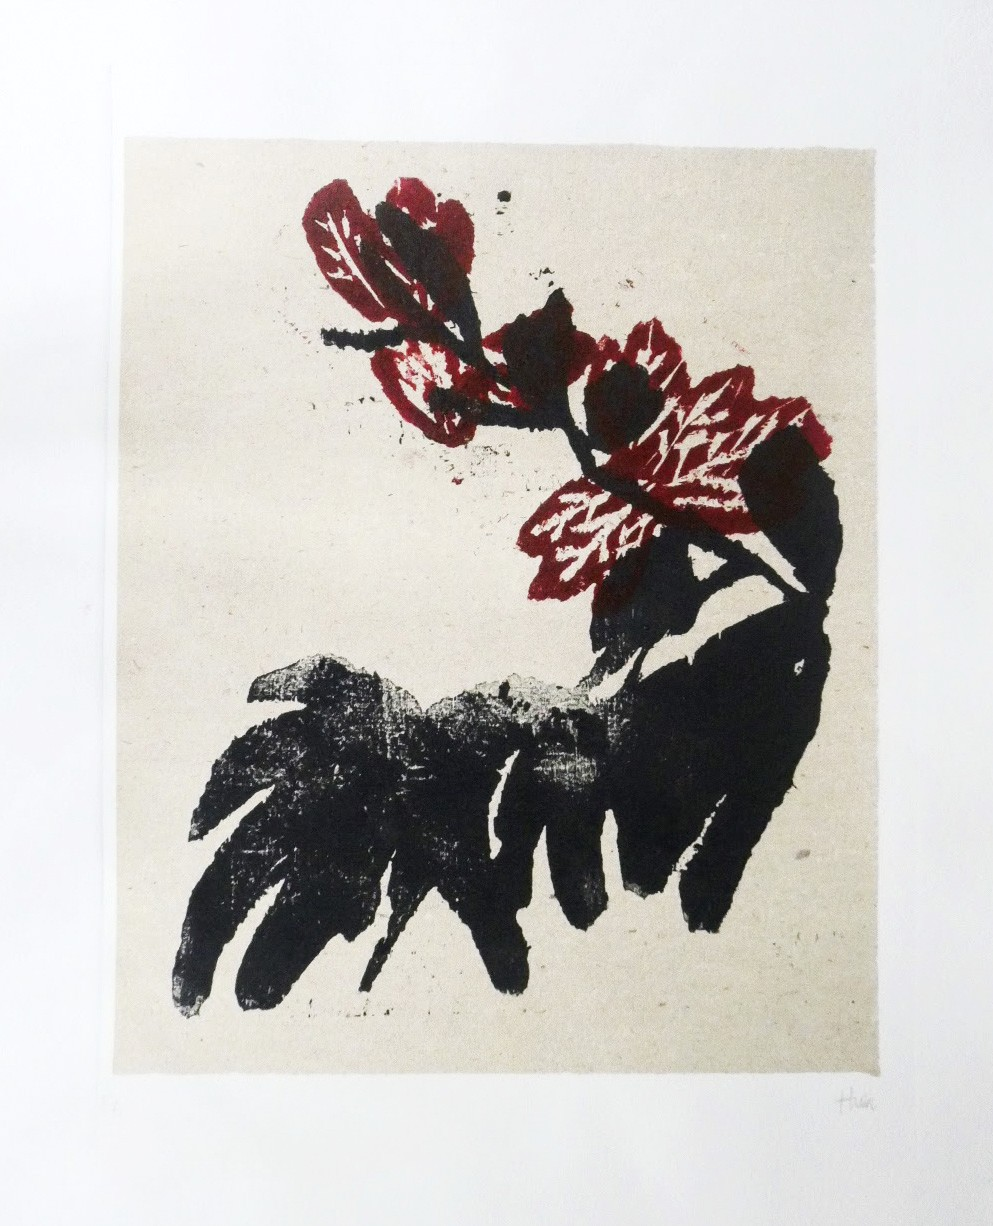
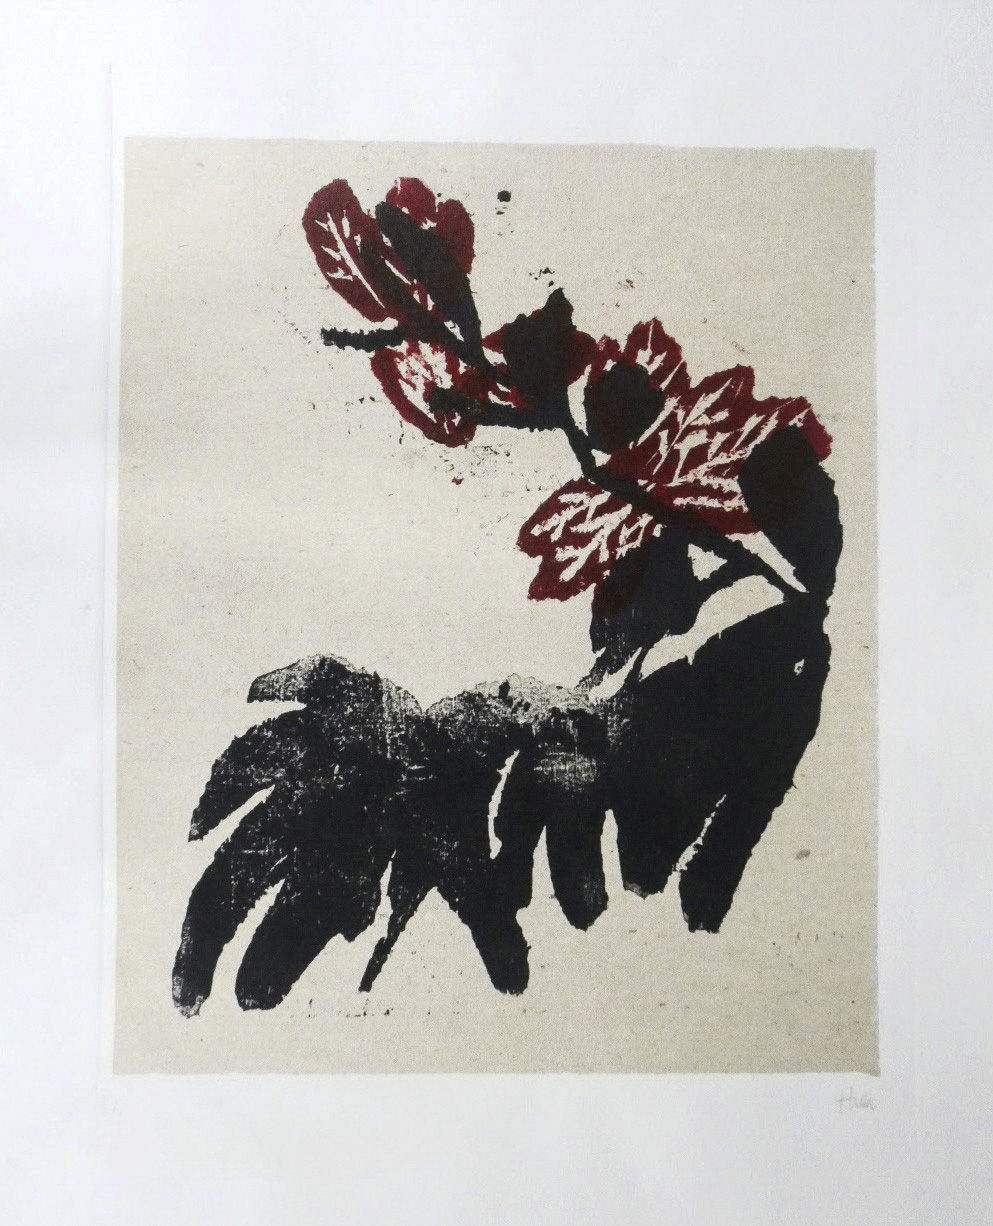
new photo

diff --git a/docs/gravures/bois/index.html b/docs/gravures/bois/index.html
@@ -299,9 +299,9 @@
       
       
       
-      <a class="gallery-item" href="/gravures/bois/tradi4.JPG" data-pswp-src="/gravures/bois/tradi4_huf040c9193bec4381a6b02a36ae1a17c4_241226_filter_10933573887768330671.JPG" data-pswp-width="993" data-pswp-height="1226" data-pswp-target="tradi4.jpg" title="Dialogue avec la peinture chinoise 1 - 39x47cm" itemscope itemtype="https://schema.org/ImageObject" style="aspect-ratio: 486 / 600">
-        <figure style="background-color: #eae8e4; aspect-ratio: 486 / 600">
-          <img class="lazyload" width="486" height="600" data-src="/gravures/bois/tradi4_huf040c9193bec4381a6b02a36ae1a17c4_241226_filter_6331161270205693318.JPG" alt="Dialogue avec la peinture chinoise 1 - 39x47cm" />
+      <a class="gallery-item" href="/gravures/bois/tradi4.JPG" data-pswp-src="/gravures/bois/tradi4_hu5a8d674d01358a74bb43c974e4c61c9b_358314_filter_10933573887768330671.JPG" data-pswp-width="993" data-pswp-height="1226" data-pswp-target="tradi4.jpg" title="Dialogue avec la peinture chinoise 1 - 39x47cm" itemscope itemtype="https://schema.org/ImageObject" style="aspect-ratio: 486 / 600">
+        <figure style="background-color: #dddcd9; aspect-ratio: 486 / 600">
+          <img class="lazyload" width="486" height="600" data-src="/gravures/bois/tradi4_hu5a8d674d01358a74bb43c974e4c61c9b_358314_filter_6331161270205693318.JPG" alt="Dialogue avec la peinture chinoise 1 - 39x47cm" />
         </figure>
         <meta itemprop="contentUrl" content="/gravures/bois/tradi4.JPG" />
         
